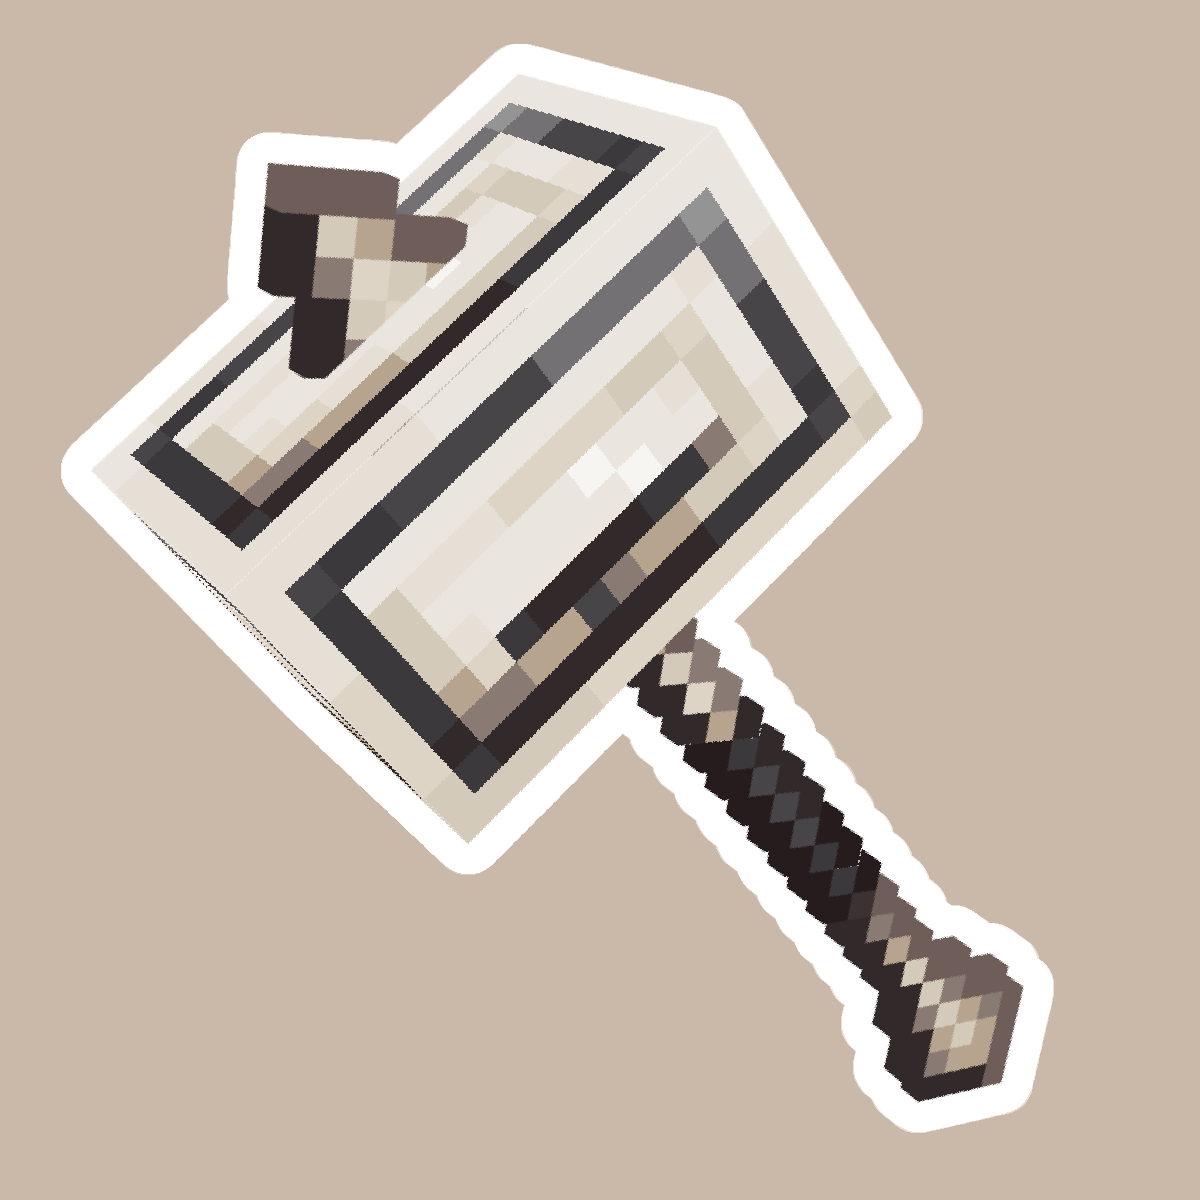
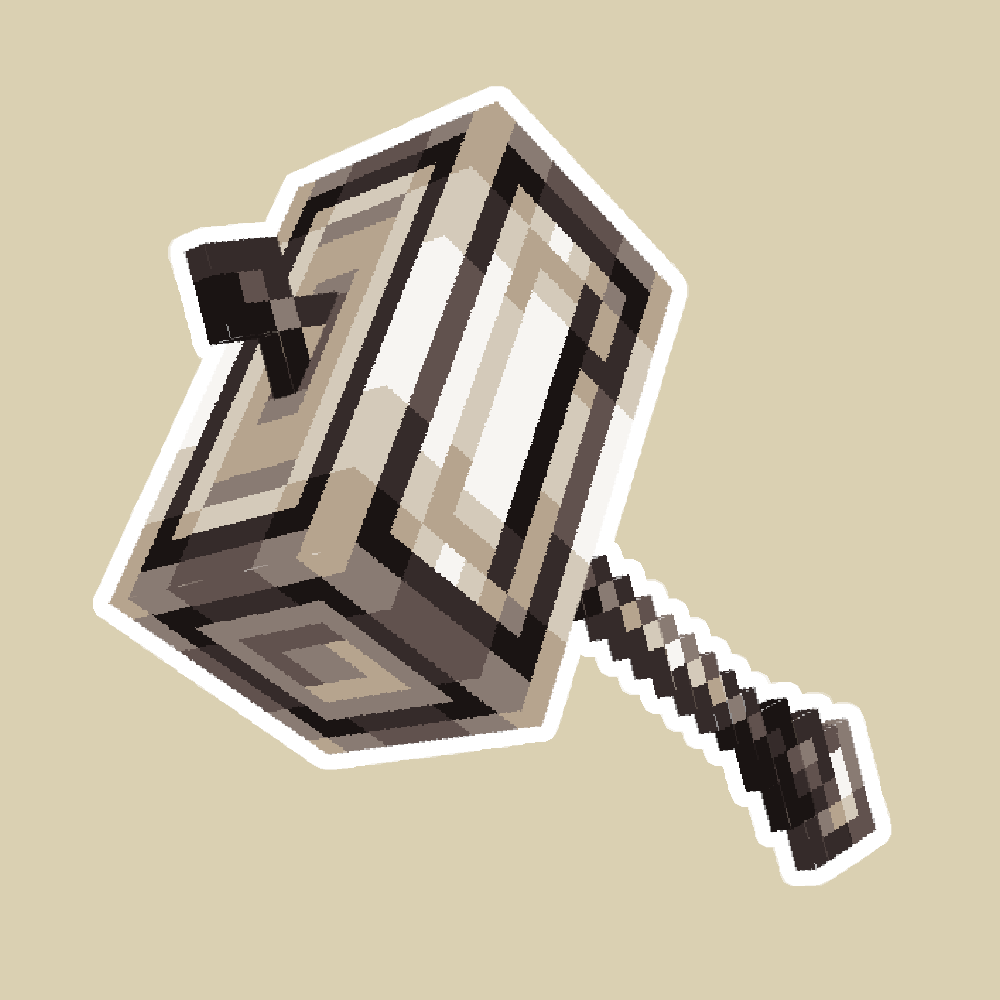
bunch of performance/memory saving issues fixed

diff --git a/src/main/java/com/thetaciturnone/taccorpstrinkets/item/QuartziteHammerItem.java b/src/main/java/com/thetaciturnone/taccorpstrinkets/item/QuartziteHammerItem.java
@@ -34,7 +34,7 @@ import net.minecraft.world.World;
 import java.util.List;
 import java.util.Objects;
 
-public class QuartziteHammerItem extends PickaxeItem implements ProjectileItem {
+public class QuartziteHammerItem extends BaseHammerItem implements ProjectileItem {
 
 	public QuartziteHammerItem(ToolMaterial material, Item.Settings settings) {
 		super(material, settings);
@@ -46,40 +46,6 @@ public class QuartziteHammerItem extends PickaxeItem implements ProjectileItem {
 
 	public static void setVariant(ItemStack stack, int variant) {
 		stack.set(TacItemComponents.HAMMER_VARIANT, variant);
-	}
-
-	@Override
-    public void postDamageEntity(ItemStack stack, LivingEntity target, LivingEntity attacker) {
-        target.damageShield(3);
-		spawnHammerSlamParticles(target);
-		playHammerSlamSound(target);
-		super.postHit(stack, target, attacker);
-    }
-
-	@Override
-	public float getBonusAttackDamage(Entity target, float baseAttackDamage, DamageSource damageSource) {
-		ItemStack stack = damageSource.getWeaponStack();
-		if (damageSource.getAttacker() instanceof LivingEntity attacker && stack != null) {
-			if (attacker.fallDistance > 1.5F && !attacker.isFallFlying() && EnchantmentHelper.hasAnyEnchantmentsWith(stack, EnchantmentEffectComponentTypes.SMASH_DAMAGE_PER_FALLEN_BLOCK)) {
-				float h = attacker.fallDistance;
-				float damage;
-				if (h <= 2.0f) { // new formula yayyyyy
-					damage = (h / 5) + 1;
-				} else if (h <= 10.0f) {
-					damage = (h / 5) + 2;
-				} else if (h < 25.0f) {
-					damage =  (h / 5) + 4;
-				} else if (h >= 25.0f) {
-					damage = Math.min((h / 5) + 5, 35); // max added damage is 35, only possible after falling >= 150 blocks
-				} else damage = h;
-				target.getWorld().playSound(null, target.getX(), target.getY(), target.getZ(), TacCorpsTrinkets.HAMMER_POWERSLAM, SoundCategory.NEUTRAL, 2.0f, 1.0f);
-				spawnHammerWaveParticle(target);
-				attacker.addVelocity(0, 1.2, 0);
-				attacker.velocityModified = true;
-				return damage;
-			}
-		}
-		return super.getBonusAttackDamage(target, baseAttackDamage, damageSource);
 	}
 
 	@Override
@@ -107,143 +73,6 @@ public class QuartziteHammerItem extends PickaxeItem implements ProjectileItem {
 		return super.useOnBlock(context);
 	}
 
-	public void spawnHammerSlamParticles(LivingEntity player) {
-		double deltaX = -MathHelper.sin((float) (double) player.getYaw() * 0.017453292F);
-		double deltaZ = MathHelper.cos((float) (double) player.getYaw() * 0.017453292F);
-		if (player.getWorld() instanceof ServerWorld serverWorld) {
-			serverWorld.spawnParticles(TacCorpsTrinkets.HAMMER_SLAM, player.getX() + deltaX, player.getBodyY(0.5), player.getZ() + deltaZ, 0, deltaX, 0.0, deltaZ, 0.0);
-		}
-	}
-	public void spawnHammerWaveParticle(Entity entity) {
-		if (entity.getWorld() instanceof ServerWorld serverWorld) {
-			serverWorld.spawnParticles(TacCorpsTrinkets.HAMMER_WAVE, entity.getX(), entity.getBodyY(0.5), entity.getZ() , 1, 0, 0.0, 0, 0.0);
-		}
-	}
-
-	public void playHammerSlamSound(LivingEntity user) {
-		if (user.getWorld() instanceof ServerWorld serverWorld) {
-			serverWorld.playSound(null, user.getX(), user.getY(), user.getZ(), TacCorpsTrinkets.HAMMER_SLAMMED, SoundCategory.NEUTRAL, 1.0F, 1.0F);
-		}
-	}
-
-	public UseAction getUseAction(ItemStack stack) {
-		return UseAction.SPEAR;
-	}
-
-	public int getMaxUseTime(ItemStack stack, LivingEntity user) {
-		return 72000;
-	}
-
-	public TypedActionResult<ItemStack> use(World world, PlayerEntity user, Hand hand) {
-		ItemStack itemStack = user.getStackInHand(hand);
-		if (itemStack.getDamage() >= itemStack.getMaxDamage() - 1) {
-			return TypedActionResult.fail(itemStack);
-		} else if (EnchantmentHelper.hasAnyEnchantmentsWith(itemStack, TacEnchantmentEffects.THROWABLE)) {
-			user.setCurrentHand(hand);
-			return TypedActionResult.consume(itemStack);
-		} else if (EnchantmentHelper.hasAnyEnchantmentsWith(itemStack, TacEnchantmentEffects.VAULT)) {
-			user.setCurrentHand(hand);
-			return TypedActionResult.consume(itemStack);
-		} else if (EnchantmentHelper.hasAnyEnchantmentsWith(itemStack, EnchantmentEffectComponentTypes.TRIDENT_SPIN_ATTACK_STRENGTH)) {
-			user.setCurrentHand(hand);
-			return TypedActionResult.consume(itemStack);
-		}
-		else return super.use(world, user, hand);
-    }
-
-	public void onStoppedUsing(ItemStack stack, World world, LivingEntity user, int remainingUseTicks) {
-		if (user instanceof PlayerEntity playerEntity) {
-			if (EnchantmentHelper.hasAnyEnchantmentsWith(stack, TacEnchantmentEffects.THROWABLE)) {
-				int i = this.getMaxUseTime(stack, user) - remainingUseTicks;
-				if (i >= 6 && stack.getDamage() < stack.getMaxDamage()) {
-					if (!world.isClient()) {
-						stack.damage(1, playerEntity, LivingEntity.getSlotForHand(user.getActiveHand()));
-						ThrownHammerEntity hammerEntity = new ThrownHammerEntity(world, playerEntity, stack);
-						hammerEntity.setVelocity(playerEntity, playerEntity.getPitch(), playerEntity.getYaw(), 0.0F, 2.5F * 0.5F, 1.0F);
-						if (playerEntity.getAbilities().creativeMode) {
-							hammerEntity.pickupType = PersistentProjectileEntity.PickupPermission.CREATIVE_ONLY;
-						}
-
-						world.spawnEntity(hammerEntity);
-						world.playSoundFromEntity(null, hammerEntity, TacCorpsTrinkets.HAMMER_THROW, SoundCategory.PLAYERS, 1.0F, 1.0F);
-						if (!playerEntity.getAbilities().creativeMode) {
-							playerEntity.getInventory().removeOne(stack);
-						}
-					}
-				}
-			} else if (EnchantmentHelper.hasAnyEnchantmentsWith(stack, TacEnchantmentEffects.VAULT)) {
-				int i = this.getMaxUseTime(stack, user) - remainingUseTicks;
-				if (i >= 4) {
-					playerEntity.getItemCooldownManager().set(this, 70);
-					playerEntity.getItemCooldownManager().set(TacItems.SHATTERED_QUARTZITE_HAMMER, 105);
-					for (LivingEntity entity : world.getNonSpectatingEntities(LivingEntity.class, user.getBoundingBox().expand(4f, 2f, 4f))) {
-						if (shockwaveShouldDamage(entity, user)) {
-							entity.takeKnockback(1, user.getX() - entity.getX(), user.getZ() - entity.getZ());
-							entity.damage(TacDamage.create(user.getWorld(), TacDamage.HAMMER_SHOCKWAVE, user), entity instanceof PlayerEntity ? 8 : 24);
-						}
-					}
-					if(!world.isClient())
-					{
-						for (int y = 0; y <= 3; y++)
-						{
-							for (int x = -3; x <= 3; x++)
-							{
-								for (int z = -3; z <= 3; z++)
-								{
-									BlockPos pos = playerEntity.getBlockPos().add(new Vec3i(x, y, z));
-									if(world.getBlockState(pos).isOf(Blocks.GLASS_PANE)) {
-										world.breakBlock(pos, false, user);
-									}
-									if(world.getBlockState(pos).isOf(Blocks.GLASS)) {
-										world.breakBlock(pos, false, user);
-									}
-									if(world.getBlockState(pos).isOf(TacBlocks.QUARTZ_GLASS)) {
-										world.breakBlock(pos, false, user);
-									}
-									if(world.getBlockState(pos).isOf(TacBlocks.QUARTZ_GLASS_PANE)) {
-										world.breakBlock(pos, false, user);
-									}
-
-								}
-							}
-						}
-					}
-					world.playSound(null, user.getX(), user.getY(), user.getZ(), TacCorpsTrinkets.HAMMER_SHOCKWAVE, SoundCategory.NEUTRAL, 2.0f, 1.0f);
-					world.addParticle(TacCorpsTrinkets.HAMMER_WAVE, user.getX(), user.getY() + 0.2, user.getZ(), 0, 0, 0);
-					playerEntity.addVelocity(0, playerEntity.isOnGround() ? 1.75 : 0.75, 0); // gives increased velocity when on the ground
-					user.velocityModified = true;
-				}
-			}
-			else if (EnchantmentHelper.hasAnyEnchantmentsWith(stack, EnchantmentEffectComponentTypes.TRIDENT_SPIN_ATTACK_STRENGTH)) {
-				int i = this.getMaxUseTime(stack, user) - remainingUseTicks;
-				if (i >= 4) {
-					playerEntity.getItemCooldownManager().set(this, 40);
-					playerEntity.getItemCooldownManager().set(TacItems.SHATTERED_QUARTZITE_HAMMER, 60);
-					float f = playerEntity.getYaw();
-					float g = playerEntity.getPitch();
-					float h = -MathHelper.sin(f * 0.017453292F) * MathHelper.cos(g * 0.017453292F);
-					float k = -MathHelper.sin(g * 0.017453292F);
-					float l = MathHelper.cos(f * 0.017453292F) * MathHelper.cos(g * 0.017453292F);
-					float m = MathHelper.sqrt(h * h + k * k + l * l);
-					float n = 3.0F * ((1.0F + (float)2.5) / 4.0F);
-					h *= n / m;
-					k *= n / m;
-					l *= n / m;
-					playerEntity.addVelocity(h, k, l);
-					playerEntity.useRiptide(20, 12.0f, stack);
-					if (playerEntity.isOnGround()) {
-						playerEntity.move(MovementType.SELF, new Vec3d(0.0, 1.1999999284744263, 0.0));
-					}
-
-					world.playSoundFromEntity(null, playerEntity, TacCorpsTrinkets.HAMMER_WHIRRING, SoundCategory.PLAYERS, 1.0F, 1.0F);
-				}
-			}
-		}
-	}
-
-	public static boolean shockwaveShouldDamage(LivingEntity entity, LivingEntity user) {
-		return entity != user && entity.isAttackable() && !entity.isTeammate(user) && !(entity instanceof Tameable tameable && tameable.getOwner() == user);
-	}
 
 	public static int cycleVariant(int current) {
 		if (current < 4) {
@@ -268,16 +97,4 @@ public class QuartziteHammerItem extends PickaxeItem implements ProjectileItem {
 		};
 	}
 
-	@Override
-	public void appendTooltip(ItemStack stack, TooltipContext context, List<Text> tooltip, TooltipType type) {
-		tooltip.add(Text.translatable("item.taccorpstrinkets.quartzite_hammer.tooltip").setStyle(Style.EMPTY.withColor(0xd0c6b6)));
-		super.appendTooltip(stack, context, tooltip, type);
-	}
-
-	@Override
-	public ProjectileEntity createEntity(World world, Position pos, ItemStack stack, Direction direction) {
-		ThrownHammerEntity hammerEntity = new ThrownHammerEntity(world, pos.getX(), pos.getY(), pos.getZ(), stack.copyWithCount(1));
-		hammerEntity.pickupType = PersistentProjectileEntity.PickupPermission.ALLOWED;
-		return hammerEntity;
-	}
 }

diff --git a/src/main/java/com/thetaciturnone/taccorpstrinkets/item/BaseHammerItem.java b/src/main/java/com/thetaciturnone/taccorpstrinkets/item/BaseHammerItem.java
@@ -12,6 +12,7 @@ import net.minecraft.enchantment.EnchantmentHelper;
 import net.minecraft.entity.Entity;
 import net.minecraft.entity.LivingEntity;
 import net.minecraft.entity.MovementType;
+import net.minecraft.entity.Tameable;
 import net.minecraft.entity.damage.DamageSource;
 import net.minecraft.entity.player.PlayerEntity;
 import net.minecraft.entity.projectile.PersistentProjectileEntity;
@@ -30,8 +31,8 @@ import net.minecraft.world.World;
 
 import java.util.List;
 
-public class ShatteredHammerItem extends PickaxeItem implements ProjectileItem {
-    public ShatteredHammerItem(ToolMaterial toolMaterial, Item.Settings settings) {
+public class BaseHammerItem extends PickaxeItem implements ProjectileItem {
+    public BaseHammerItem(ToolMaterial toolMaterial, Item.Settings settings) {
         super(toolMaterial, settings);
     }
 
@@ -101,13 +102,9 @@ public class ShatteredHammerItem extends PickaxeItem implements ProjectileItem {
 		ItemStack itemStack = user.getStackInHand(hand);
 		if (itemStack.getDamage() >= itemStack.getMaxDamage() - 1) {
 			return TypedActionResult.fail(itemStack);
-		} else if (EnchantmentHelper.hasAnyEnchantmentsWith(itemStack, TacEnchantmentEffects.THROWABLE)) {
-			user.setCurrentHand(hand);
-			return TypedActionResult.consume(itemStack);
-		} else if (EnchantmentHelper.hasAnyEnchantmentsWith(itemStack, TacEnchantmentEffects.VAULT)) {
-			user.setCurrentHand(hand);
-			return TypedActionResult.consume(itemStack);
-		} else if (EnchantmentHelper.hasAnyEnchantmentsWith(itemStack, EnchantmentEffectComponentTypes.TRIDENT_SPIN_ATTACK_STRENGTH)) {
+		} else if (EnchantmentHelper.hasAnyEnchantmentsWith(itemStack, EnchantmentEffectComponentTypes.TRIDENT_SPIN_ATTACK_STRENGTH)
+			|| EnchantmentHelper.hasAnyEnchantmentsWith(itemStack, TacEnchantmentEffects.THROWABLE)
+			|| EnchantmentHelper.hasAnyEnchantmentsWith(itemStack, TacEnchantmentEffects.THROWABLE)) {
 			user.setCurrentHand(hand);
 			return TypedActionResult.consume(itemStack);
 		}
@@ -138,35 +135,24 @@ public class ShatteredHammerItem extends PickaxeItem implements ProjectileItem {
 				int i = this.getMaxUseTime(stack, user) - remainingUseTicks;
 				if (i >= 4) {
 					playerEntity.getItemCooldownManager().set(this, 30);
-					playerEntity.getItemCooldownManager().set(TacItems.QUARTZITE_HAMMER, 20);
 					for (LivingEntity entity : world.getNonSpectatingEntities(LivingEntity.class, user.getBoundingBox().expand(4f, 2f, 4f))) {
 						if (QuartziteHammerItem.shockwaveShouldDamage(entity, user)) {
 							entity.takeKnockback(1, user.getX() - entity.getX(), user.getZ() - entity.getZ());
 							entity.damage(TacDamage.create(user.getWorld(), TacDamage.HAMMER_SHOCKWAVE, user), entity instanceof PlayerEntity ? 8 : 24);
 						}
 					}
-					if(!world.isClient())
-					{
-						for (int y = 0; y <= 3; y++)
-						{
-							for (int x = -3; x <= 3; x++)
-							{
-								for (int z = -3; z <= 3; z++)
-								{
-									BlockPos pos = playerEntity.getBlockPos().add(new Vec3i(x, y, z));
-									if(world.getBlockState(pos).isOf(Blocks.GLASS_PANE)) {
-										world.breakBlock(pos, false, user);
-									}
-									if(world.getBlockState(pos).isOf(Blocks.GLASS)) {
-										world.breakBlock(pos, false, user);
-									}
-									if(world.getBlockState(pos).isOf(TacBlocks.QUARTZ_GLASS)) {
-										world.breakBlock(pos, false, user);
-									}
-									if(world.getBlockState(pos).isOf(TacBlocks.QUARTZ_GLASS_PANE)) {
-										world.breakBlock(pos, false, user);
-									}
+					if(!world.isClient()) {
+						var pos = new BlockPos.Mutable();
 
+						for (int y = 0; y <= 3; ++y) {
+							for (int x = -3; x <= 3; ++x) {
+								for (int z = -3; z <= 3; ++z) {
+									pos.set(playerEntity.getBlockPos())
+										.move(x, y, z);
+
+									if (world.getBlockState(pos).isIn(TacCorpsTrinkets.BREAKABLE_GLASS_TAG)) {
+										world.breakBlock(pos, false, user);
+									}
 								}
 							}
 						}
@@ -203,10 +189,13 @@ public class ShatteredHammerItem extends PickaxeItem implements ProjectileItem {
 			}
 		}
 	}
+	public static boolean shockwaveShouldDamage(LivingEntity entity, LivingEntity user) {
+		return entity != user && entity.isAttackable() && !entity.isTeammate(user) && !(entity instanceof Tameable tameable && tameable.getOwner() == user);
+	}
 
 	@Override
 	public void appendTooltip(ItemStack stack, TooltipContext context, List<Text> tooltip, TooltipType type) {
-		tooltip.add(Text.translatable("item.taccorpstrinkets.shattered_quartzite_hammer.tooltip").setStyle(Style.EMPTY.withColor(0xd0c6b6)));
+		tooltip.add(Text.translatable(this.getTranslationKey(stack) + ".tooltip").setStyle(Style.EMPTY.withColor(0xd0c6b6)));
 		super.appendTooltip(stack, context, tooltip, type);
 	}
 

diff --git a/src/main/java/com/thetaciturnone/taccorpstrinkets/mixin/ItemRendererMixin.java b/src/main/java/com/thetaciturnone/taccorpstrinkets/mixin/ItemRendererMixin.java
@@ -2,7 +2,7 @@ package com.thetaciturnone.taccorpstrinkets.mixin;
 
 import com.thetaciturnone.taccorpstrinkets.TacCorpsTrinkets;
 import com.thetaciturnone.taccorpstrinkets.item.QuartziteHammerItem;
-import com.thetaciturnone.taccorpstrinkets.item.ShatteredHammerItem;
+import com.thetaciturnone.taccorpstrinkets.item.BaseHammerItem;
 import com.thetaciturnone.taccorpstrinkets.item.SilentMaskItem;
 import net.minecraft.client.render.VertexConsumerProvider;
 import net.minecraft.client.render.item.ItemRenderer;
@@ -25,7 +25,7 @@ public abstract class ItemRendererMixin {
 				return ((ItemRendererAccessor) this).getModels().getModelManager().getModel(QuartziteHammerItem.getHammerModelIdentifier(stack, handheld));
 			}
 		}
-		else if (stack.getItem() instanceof ShatteredHammerItem && renderMode != ModelTransformationMode.GUI && renderMode != ModelTransformationMode.GROUND) {
+		else if (stack.getItem() instanceof BaseHammerItem && renderMode != ModelTransformationMode.GUI && renderMode != ModelTransformationMode.GROUND) {
 			return ((ItemRendererAccessor) this).getModels().getModelManager().getModel(TacCorpsTrinkets.id("item/shattered_quartzite_hammer_handheld"));
 		}
 		else if (stack.getItem() instanceof SilentMaskItem && renderMode == ModelTransformationMode.HEAD) {

diff --git a/src/main/java/com/thetaciturnone/taccorpstrinkets/mixin/NoteBlockMixin.java b/src/main/java/com/thetaciturnone/taccorpstrinkets/mixin/NoteBlockMixin.java
@@ -7,6 +7,7 @@ import com.thetaciturnone.taccorpstrinkets.registries.TacBlocks;
 import net.minecraft.block.BlockState;
 import net.minecraft.block.NoteBlock;
 import net.minecraft.block.enums.NoteBlockInstrument;
+import net.minecraft.registry.Registries;
 import net.minecraft.registry.entry.RegistryEntry;
 import net.minecraft.sound.SoundEvent;
 import net.minecraft.util.math.BlockPos;
@@ -20,7 +21,7 @@ public class NoteBlockMixin {
 	@WrapOperation(method = "onSyncedBlockEvent", at = @At(value = "INVOKE", target = "Lnet/minecraft/block/enums/NoteBlockInstrument;getSound()Lnet/minecraft/registry/entry/RegistryEntry;"))
 	private RegistryEntry<SoundEvent> tacCorp$tacMeowNoteBlock(NoteBlockInstrument instrument, Operation<RegistryEntry<SoundEvent>> original, BlockState state, World world, BlockPos pos, int type, int data) {
 		if (world.getBlockState(pos.down()).isOf(TacBlocks.TAC_PLUSHIE)) {
-			return RegistryEntry.of(TacCorpsTrinkets.TAC_BOOPED_SOUND_EVENT);
+			return Registries.SOUND_EVENT.getEntry(TacCorpsTrinkets.TAC_BOOPED_SOUND_EVENT);
 		}
 		return original.call(instrument);
 	}

diff --git a/src/main/java/com/thetaciturnone/taccorpstrinkets/mixin/LivingEntityMixin.java b/src/main/java/com/thetaciturnone/taccorpstrinkets/mixin/LivingEntityMixin.java
@@ -2,7 +2,7 @@ package com.thetaciturnone.taccorpstrinkets.mixin;
 
 import com.llamalad7.mixinextras.injector.ModifyReturnValue;
 import com.thetaciturnone.taccorpstrinkets.item.QuartziteHammerItem;
-import com.thetaciturnone.taccorpstrinkets.item.ShatteredHammerItem;
+import com.thetaciturnone.taccorpstrinkets.item.BaseHammerItem;
 import net.minecraft.entity.Entity;
 import net.minecraft.entity.EntityType;
 import net.minecraft.entity.LivingEntity;
@@ -23,7 +23,7 @@ public abstract class LivingEntityMixin extends Entity {
 
 	@ModifyReturnValue(method = "disablesShield", at = @At("RETURN"))
     public boolean tacCorp$hammerDisablesShield(boolean original) {
-        if (this.getMainHandStack().getItem() instanceof QuartziteHammerItem || this.getMainHandStack().getItem() instanceof ShatteredHammerItem) {
+        if (this.getMainHandStack().getItem() instanceof QuartziteHammerItem || this.getMainHandStack().getItem() instanceof BaseHammerItem) {
             return true;
         }
 		return original;

diff --git a/src/main/java/com/thetaciturnone/taccorpstrinkets/mixin/HeldItemRendererMixin.java b/src/main/java/com/thetaciturnone/taccorpstrinkets/mixin/HeldItemRendererMixin.java
@@ -7,6 +7,7 @@ import net.minecraft.client.render.model.json.ModelTransformationMode;
 import net.minecraft.client.util.math.MatrixStack;
 import net.minecraft.entity.LivingEntity;
 import net.minecraft.item.ItemStack;
+import net.minecraft.util.math.MathHelper;
 import org.joml.Quaternionf;
 import org.spongepowered.asm.mixin.Mixin;
 import org.spongepowered.asm.mixin.injection.At;
@@ -20,7 +21,7 @@ public abstract class HeldItemRendererMixin {
 	private void tacCorp$lowerHammerWhenBoosting(LivingEntity entity, ItemStack stack, ModelTransformationMode renderMode, boolean leftHanded, MatrixStack matrices, VertexConsumerProvider vertexConsumers, int light, CallbackInfo ci) {
 		if (entity.isUsingRiptide() && (stack.isOf(TacItems.QUARTZITE_HAMMER) || stack.isOf(TacItems.SHATTERED_QUARTZITE_HAMMER))) {
 			matrices.translate(0.25f, -0.15f, -0.4f);
-			matrices.multiply(new Quaternionf().rotateX(45f));
+			matrices.multiply(new Quaternionf().rotateX(45f * MathHelper.DEGREES_PER_RADIAN));
 		}
 	}
 

diff --git a/src/main/java/com/thetaciturnone/taccorpstrinkets/registries/TacItems.java b/src/main/java/com/thetaciturnone/taccorpstrinkets/registries/TacItems.java
@@ -24,9 +24,9 @@ public class TacItems {
 			new Item.Settings().maxCount(1).rarity(Rarity.RARE).fireproof()
 				.attributeModifiers(QuartziteHammerItem.createAttributeModifiers(QuartziteToolMaterial.QUARTZITE, 4, -3F))));
 	public static final Item SHATTERED_QUARTZITE_HAMMER = registerItem("shattered_quartzite_hammer",
-		new ShatteredHammerItem(QuartziteToolMaterial.QUARTZITE,
+		new BaseHammerItem(QuartziteToolMaterial.QUARTZITE,
 			new Item.Settings().maxCount(1).rarity(Rarity.RARE).fireproof()
-				.attributeModifiers(ShatteredHammerItem.createAttributeModifiers(QuartziteToolMaterial.QUARTZITE, 2, -3.2F))));
+				.attributeModifiers(BaseHammerItem.createAttributeModifiers(QuartziteToolMaterial.QUARTZITE, 2, -3.2F))));
 	public static final Item MASK_OF_SILENCE = registerItem("mask_of_silence",
 		new SilentMaskItem(new Item.Settings().maxCount(1).rarity(Rarity.RARE).fireproof()));
 

diff --git a/src/main/java/com/thetaciturnone/taccorpstrinkets/TacCorpsTrinkets.java b/src/main/java/com/thetaciturnone/taccorpstrinkets/TacCorpsTrinkets.java
@@ -63,6 +63,7 @@ public class TacCorpsTrinkets implements ModInitializer {
 	public static BlockEntityType<PrismaticQuartzBlockEntity> PRISMATIC_ENTITY;
 	public static BlockEntityType<TacPlushieBlockEntity> TAC_PLUSH_BLOCK_ENTITY;
 	public static final TagKey<Block> LIGHT_SOURCE_BLOCK_TAG = TagKey.of(Registries.BLOCK.getKey(), id("light_sources"));
+	public static final TagKey<Block> BREAKABLE_GLASS_TAG = TagKey.of(Registries.BLOCK.getKey(), id("breakable_glass"));
 
 	@Override
 	public void onInitialize() {
